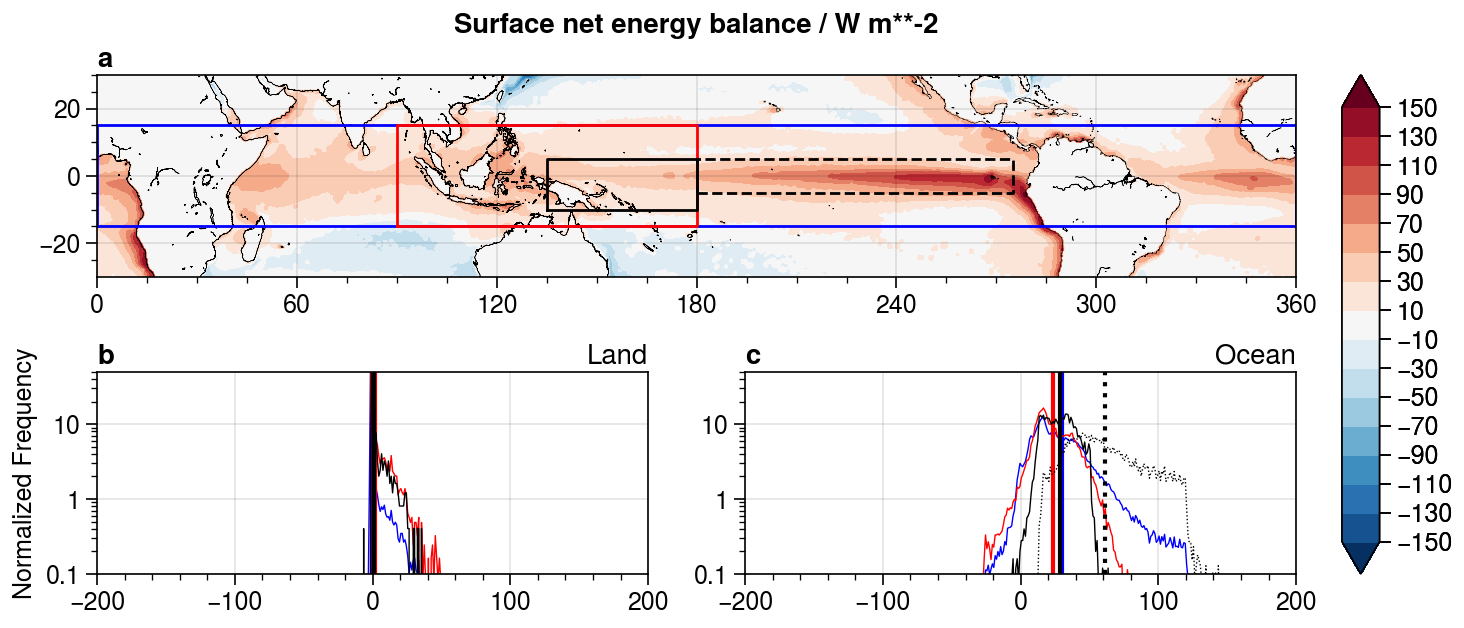
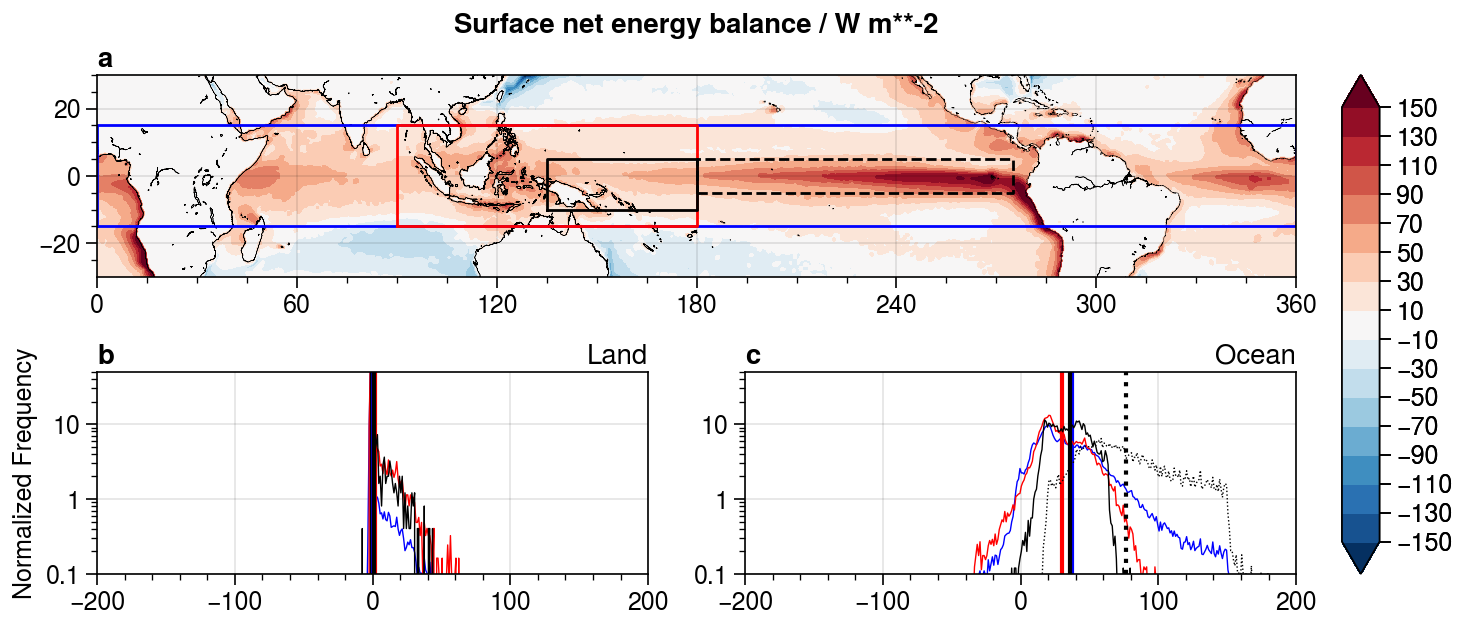
Updates to plots and README

diff --git a/README.md b/README.md
@@ -227,12 +227,12 @@ We find that the surface energy balance in ERA5 reanalysis is much lower than th
 
 ![Surface Balance](figures/seb-era5.png)
 
-| Domain | Insol  | SST / K | Net SW | Net LW | Sensible | Latent | SFC Bal |
-| :----: |  :---: |  :---:  |  :---:  |  :--:  | :----: |  :---:  |  :--:  |
-|  DTP   | 1345.6 |  300.7  | +178.84 | -42.92 | -8.96  | -105.60 | +29.86 |
-|  IPW   | 1345.6 |  301.9  | +174.08 | -40.79 | -9.46  | -100.09 | +23.83 |
-|  WPW   | 1355.8 |  302.4  | +172.56 | -39.74 | -10.26 | -94.14  | +28.45 |
-|  DRY   | 1359.3 |  299.7  | +191.51 | -41.38 | -5.85  | -83.15  | +61.14 |
+| Domain | Insol | SST / K | Net SW | Net LW | Sensible | Latent | SFC Bal |
+| :-: | :----: | :---: | :-----: | :----: | :----: | :-----: | :----: |
+| DTP | 1345.6 | 300.7 | +224.71 | -52.36 | -10.39 | -124.63 | +37.33 |
+| IPW | 1345.6 | 301.9 | +217.57 | -50.97 | -11.83 | -124.98 | +29.79 |
+| WPW | 1355.8 | 302.4 | +215.72 | -49.68 | -12.83 | -117.66 | +35.56 |
+| DRY | 1359.3 | 299.7 | +239.39 | -51.72 | -7.32  | -103.93 | +76.42 |
 
 ### C. Comparison with SP-CAM
 
@@ -240,16 +240,25 @@ As mentioned in Section 2, we also compare our results to that from SP-CAM in or
 
 ![Surface Balance](figures/seb-spcam.png)
 
-| Domain | Insol  | SST / K | Net SW | Net LW | Sensible | Latent | SFC Bal |
-| :----: |  :---: |  :---:  |  :---:  |  :--:  | :---:  |  :--:   |  :--:  |
-|  DTP   | 1345.6 |  300.7  | +202.43 | -48.83 | -10.93 | -137.01 | +5.65  |
-|  IPW   | 1345.6 |  301.9  | +183.81 | -45.70 | -12.77 | -149.11 | -23.77 |
-|  WPW   | 1355.8 |  302.4  | +180.08 | -40.93 | -11.29 | -132.38 | -4.52  |
-|  DRY   | 1359.3 |  299.7  | +224.75 | -44.15 | -5.03  | -90.69  | +84.88 |
+| Domain | Insol | SST / K | Net SW | Net LW | Sensible | Latent | SFC Bal |
+| :-: | :----: | :---: | :-----: | :----: | :----: | :-----: | :----: |
+| DTP | 1345.6 | 300.7 | +202.43 | -48.83 | -10.93 | -137.01 | +5.65  |
+| IPW | 1345.6 | 301.9 | +183.81 | -45.70 | -12.77 | -149.11 | -23.77 |
+| WPW | 1355.8 | 302.4 | +180.08 | -40.93 | -11.29 | -132.38 | -4.52  |
+| DRY | 1359.3 | 299.7 | +224.75 | -44.15 | -5.03  | -90.69  | +84.88 |
 
 We see from the SP-CAM runs that the surface energy balance within the tropics is definitely not as high as in our SP-CAM runs.  The magnitude of the surface energy balance in the tropics and the net shortwave downwards into the ground at ~O(190) W/m2 which is close to that of reanalysis, indicates that the very high net shortwave ~O(280) W/m2 observed in small-domain RCE simulations is due to the RCE setup itself, rather that it being an artifact of SAM.
 
 It is notable however, that in our SP-CAM runs the surface energy balance of the tropical regions is negative.  However, this is likely due to the fact that the SP-CAM model was run in a perpetual mid-February insolation, which is not equinoctal, and where there is more insolation in the southern hemisphere that would account for an overall loss in surface energy balance in many tropical regions.  In fact, we do see a gradient in the surface energy balance from north to south.
+
+![Surface Balance](figures/seb-feb.png)
+
+| Domain | Insol | SST / K | Net SW | Net LW | Sensible | Latent | SFC Bal |
+| :-: | :----: | :---: | :-----: | :----: | :----: | :-----: | :-----: |
+| DTP | 1345.6 | 300.7 | +236.93 | -53.37 | -9.79  | -122.98 | +50.79  |
+| IPW | 1345.6 | 301.9 | +224.71 | -50.70 | -11.68 | -128.49 | +33.85  |
+| WPW | 1355.8 | 302.4 | +220.04 | -48.15 | -13.02 | -125.64 | +33.24  |
+| DRY | 1359.3 | 299.7 | +246.68 | -49.33 | -6.28  | -88.23  | +102.84 |
 
 ## 6. Finding the Underlying Reason for Large Surface Imbalances in RCE
 
@@ -257,7 +266,7 @@ It is notable however, that in our SP-CAM runs the surface energy balance of the
 
 Next, we attempt to see if the absence of the large-scale circulation is a part of the reason why
 
-| Domain | Insol  | SST / K | Config | Net SW | Net LW | Sensible | Latent | SFC Bal |
+| Domain | Insol | SST / K | Config | Net SW | Net LW | Sensible | Latent | SFC Bal |
 | :-: | :----: | :---: | :---: | :-----: | :----: | :----: | :----: | :-----: |
 | DTP | 1345.6 | 300.7 | 2D-1M | +253.39 | -55.28 | -9.40 | -78.89 | +109.83 |
 | IPW | 1345.6 | 301.9 | 2D-1M | +226.90 | -45.04 | -8.99 | -72.47 | +100.40 |
